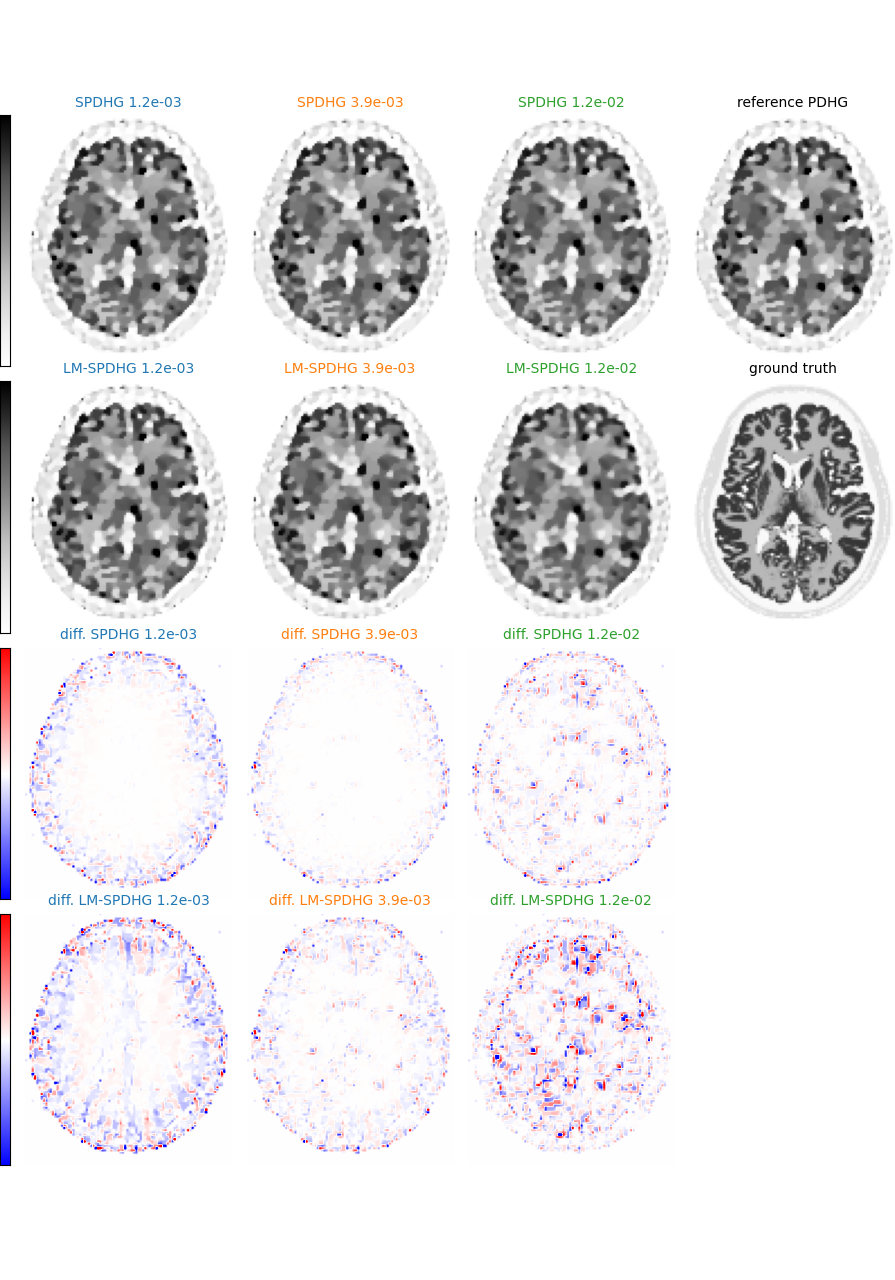
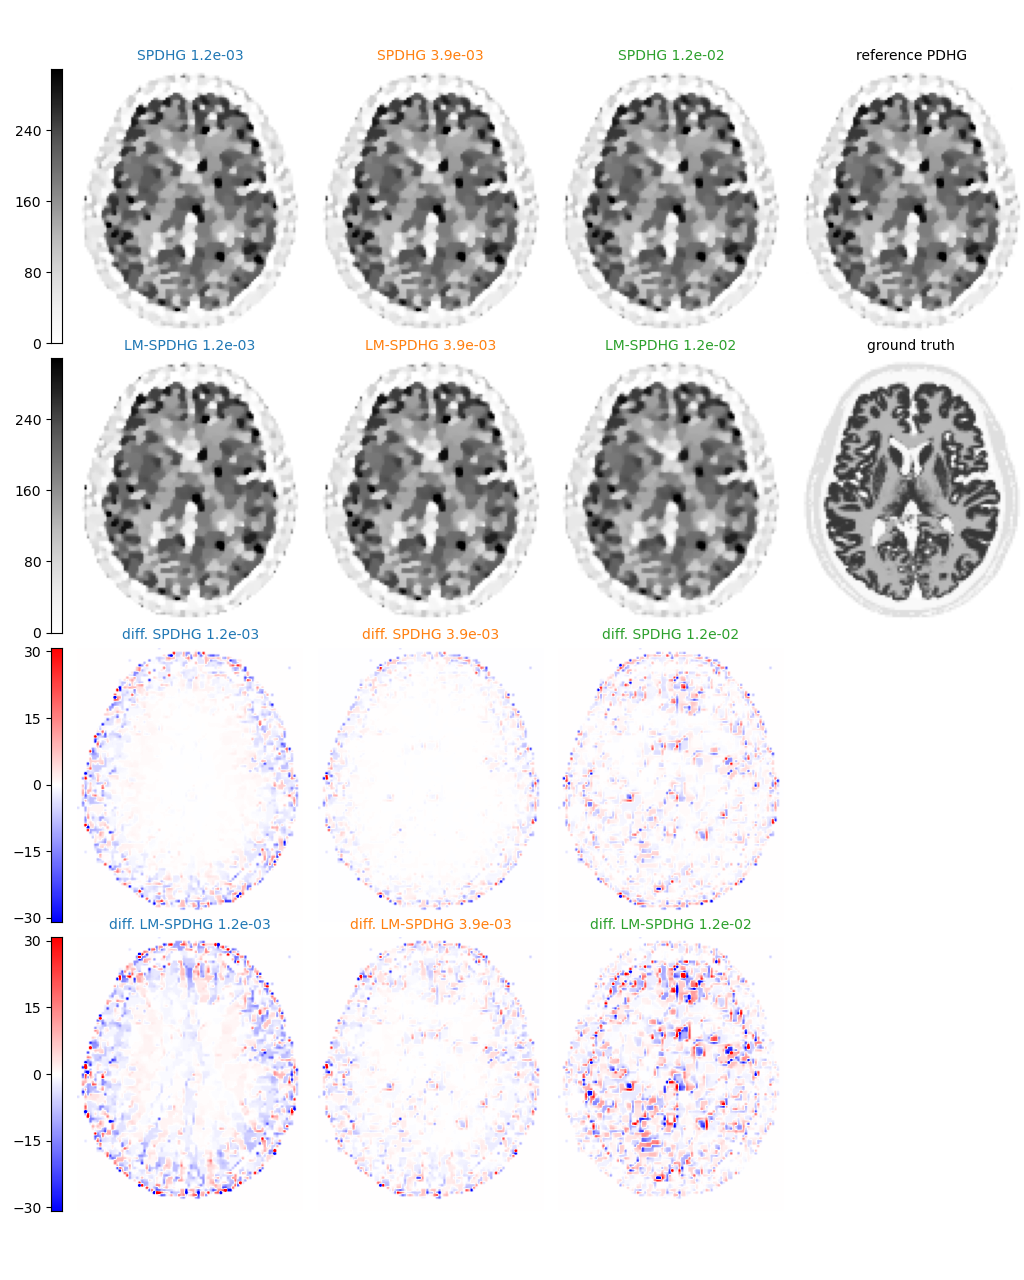
another figure update

diff --git a/docs/mic2021/plot_2d_pet_tv.py b/docs/mic2021/plot_2d_pet_tv.py
@@ -41,9 +41,9 @@ vmax = 1.2*img.max()
 
 sl = (slice(8,-8,None),slice(18,-18,None))
 
-fs = (0.7*3.2*(len(gammas)+1),4*3.2)
+fs = (0.8*3.2*(len(gammas)+1),4*3.2)
 fig = plt.figure(figsize = fs)
-grid  = ImageGrid(fig, (0,0,1,1),  # similar to subplot(111)
+grid  = ImageGrid(fig, (0.05,0,0.95,1),  # similar to subplot(111)
                  nrows_ncols=(len(gammas)+1, 4),  # creates 2x2 grid of axes
                  axes_pad=0.15,  # pad between axes in inch.
                  cbar_mode = 'edge',
@@ -78,33 +78,6 @@ for axx in grid:
   axx.set_axis_off()
 
 fig.show()
-
-#fig, ax = plt.subplots(4,len(gammas)+1, figsize = (0.8*2.5*(len(gammas)+1),4*2.5))
-#for i,gam in enumerate(gammas):
-#  i0 = ax[0,i].imshow(x_sino[i,...].squeeze()[sl], vmin = 0, vmax = vmax, cmap = plt.cm.Greys)
-#  i1 = ax[1,i].imshow(x_lm[i,...].squeeze()[sl],   vmin = 0, vmax = vmax, cmap = plt.cm.Greys)
-#
-#  i2 = ax[2,i].imshow(x_sino[i,...].squeeze()[sl] - ref_recon.squeeze()[sl], 
-#                 vmin = -0.1*vmax, vmax = 0.1*vmax, cmap = plt.cm.bwr)
-#  i3 = ax[3,i].imshow(x_lm[i,...].squeeze()[sl] - ref_recon.squeeze()[sl],   
-#                 vmin = -0.1*vmax, vmax = 0.1*vmax, cmap = plt.cm.bwr)
-#
-#  ax[0,i].set_title(f'SPDHG {gam:.1e}', fontsize = 'medium', color = plt.get_cmap("tab10")(i))
-#  ax[1,i].set_title(f'LM-SPDHG {gam:.1e}', fontsize = 'medium', color = plt.get_cmap("tab10")(i))
-#  ax[2,i].set_title(f'diff. SPDHG {gam:.1e}', fontsize = 'medium', color = plt.get_cmap("tab10")(i))
-#  ax[3,i].set_title(f'diff. LM-SPDHG {gam:.1e}', fontsize = 'medium', color = plt.get_cmap("tab10")(i))
-#
-#i01 = ax[0,-1].imshow(ref_recon.squeeze()[sl], vmin = 0, vmax = vmax, cmap = plt.cm.Greys)
-#i11 = ax[1,-1].imshow(img.squeeze()[sl],       vmin = 0, vmax = vmax, cmap = plt.cm.Greys)
-#
-#ax[0,-1].set_title(f'reference PDHG', fontsize = 'medium')
-#ax[1,-1].set_title(f'ground truth', fontsize = 'medium')
-#
-#for axx in ax.ravel():
-#  axx.set_axis_off()
-#
-#fig.tight_layout()
-#fig.show()
 
 c_ref = cost_ref.min()
 n     = c_0 - c_ref
